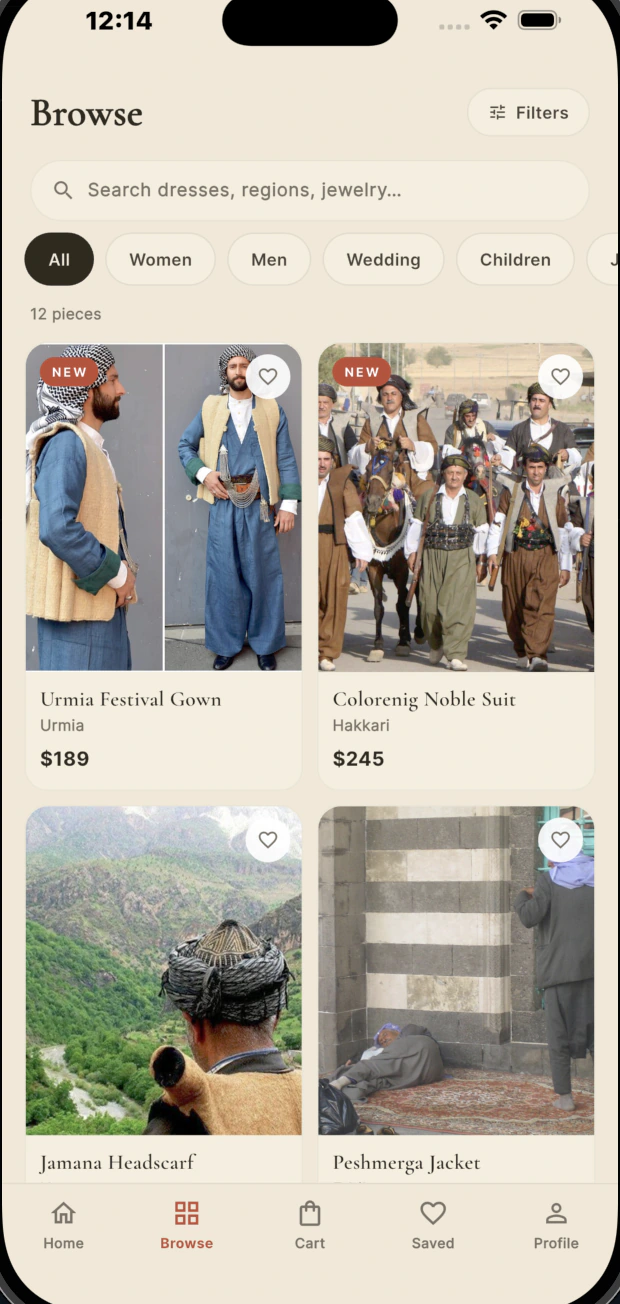
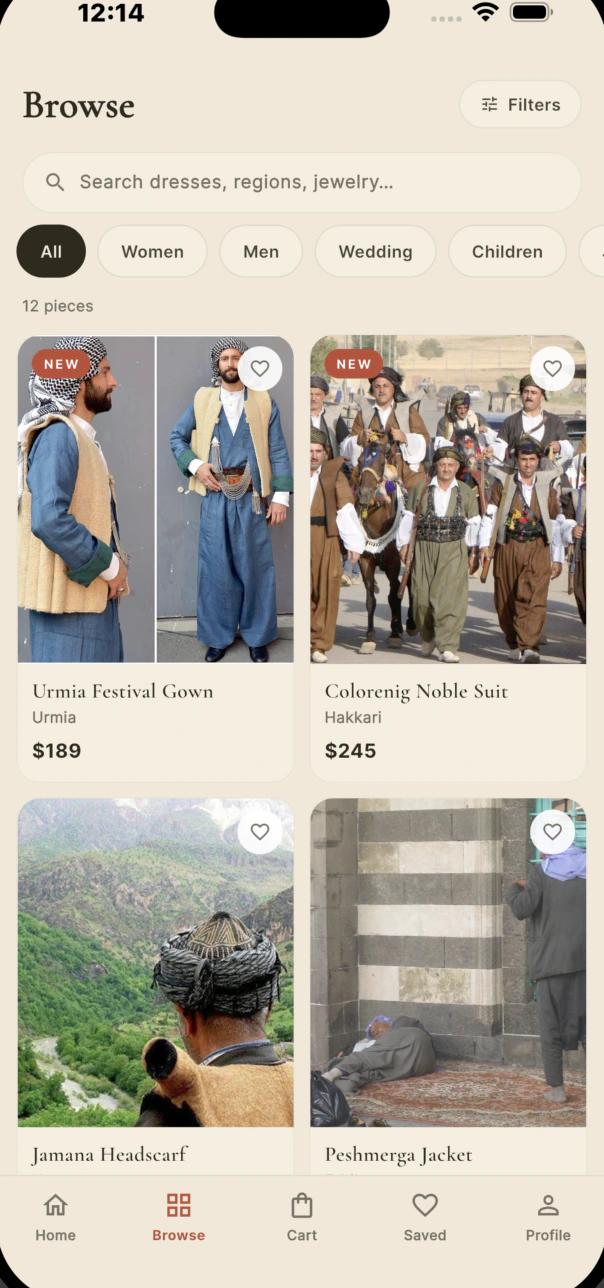
fix(work): Berg staged like every other phone project
Its captures had an 8px phone bezel baked into the image, which is why
it never matched CountCal: framing it doubled the hardware, staging it
bare made it the odd one out. The bezel is cropped off at the source, so
the shots are plain screens now and Berg goes through the same CSS
iPhone frame as the rest. Drops the bare-render special cases.

diff --git a/src/components/Projects.tsx b/src/components/Projects.tsx
@@ -3,10 +3,6 @@ import { Frame } from "./Devices";
 import { Reveal, useReveal } from "./Reveal";
 import "./sections.css";
 
-// Bêrg captures are full phone renders already; framing them again would
-// double the hardware. They stage bare, everything else sits in CSS hardware.
-const isBare = (p: Project) => p.id === "berg";
-
 function Card({ project, index, onOpen }: { project: Project; index: number; onOpen: (p: Project) => void }) {
   const ref = useReveal<HTMLElement>(Math.min(index % 3, 2) * 0.09);
   const shot = project.shots[0];
@@ -15,13 +11,9 @@ function Card({ project, index, onOpen }: { project: Project; index: number; onO
     <article className="work-card reveal-md" ref={ref} onClick={() => onOpen(project)}>
       <div className="work-media">
         <div className={`work-stage work-stage-${project.device}`}>
-          {isBare(project) ? (
-            <img className="work-bare" src={shot.src} alt={`${project.name}: ${shot.label}`} loading="lazy" />
-          ) : (
-            <Frame kind={project.device}>
-              <img className="shot" src={shot.src} alt={`${project.name}: ${shot.label}`} loading="lazy" />
-            </Frame>
-          )}
+          <Frame kind={project.device}>
+            <img className="shot" src={shot.src} alt={`${project.name}: ${shot.label}`} loading="lazy" />
+          </Frame>
         </div>
       </div>
 

diff --git a/src/components/ProjectModal.tsx b/src/components/ProjectModal.tsx
@@ -46,15 +46,9 @@ export function ProjectModal({ project, onClose }: { project: Project | null; on
               the product, which is what the row was clicked for. */}
           <div className="pj-gallery">
             <div className={`pj-stage pj-stage-${project.device}`}>
-              {/* Bêrg captures are full phone renders already; framing them
-                  again doubled the hardware. */}
-              {project.id === "berg" ? (
-                <img className="pj-bare" src={active.src} alt={`${project.name}: ${active.label}`} />
-              ) : (
-                <Frame kind={project.device}>
-                  <img className="shot" src={active.src} alt={`${project.name}: ${active.label}`} />
-                </Frame>
-              )}
+              <Frame kind={project.device}>
+                <img className="shot" src={active.src} alt={`${project.name}: ${active.label}`} />
+              </Frame>
             </div>
 
             <p className="pj-cap">{active.cap}</p>

diff --git a/src/components/modal.css b/src/components/modal.css
@@ -117,18 +117,6 @@
   transform: translate(-50%, -50%) scale(0.5);
 }
 
-/* The capture already draws its own bezel, but flat to the image edge. The
-   radius rounds those corners so it reads as hardware, not a pasted rectangle. */
-.pj-bare {
-  position: absolute;
-  left: 50%;
-  top: 50%;
-  transform: translate(-50%, -50%);
-  height: 100%;
-  border-radius: 44px;
-  filter: drop-shadow(0 40px 70px rgba(0, 0, 0, 0.5));
-}
-
 .pj-cap {
   margin: 0;
   max-width: 46ch;
@@ -167,10 +155,6 @@
   border: 1px solid var(--panel-line);
   border-radius: 6px;
   transition: border-color 0.2s var(--ease), transform 0.2s var(--ease);
-}
-/* Bêrg captures carry a bezel; sample from inside the screen for the thumb. */
-.pj-thumb .pj-thumb-bezel {
-  object-position: center 22%;
 }
 .pj-thumb span {
   font-size: 9px;

diff --git a/src/components/sections.css b/src/components/sections.css
@@ -176,22 +176,6 @@
   --cs: 0.36;
 }
 
-/* Bêrg's capture is already a phone render; it stages bare, with its flat
-   image corners rounded so it matches the CSS hardware next to it. */
-.work-bare {
-  position: absolute;
-  top: 22px;
-  left: 50%;
-  transform: translateX(-50%);
-  width: 244px;
-  border-radius: 34px;
-  filter: drop-shadow(0 26px 50px rgba(0, 0, 0, 0.45));
-  transition: transform 0.45s var(--ease);
-}
-.work-card:hover .work-bare {
-  transform: translate(-50%, -6px);
-}
-
 .work-text {
   padding: 22px 24px 24px;
   display: flex;
@@ -318,8 +302,5 @@
   }
   .work-stage-phone .dev {
     --cs: 0.62;
-  }
-  .work-bare {
-    width: 206px;
   }
 }
